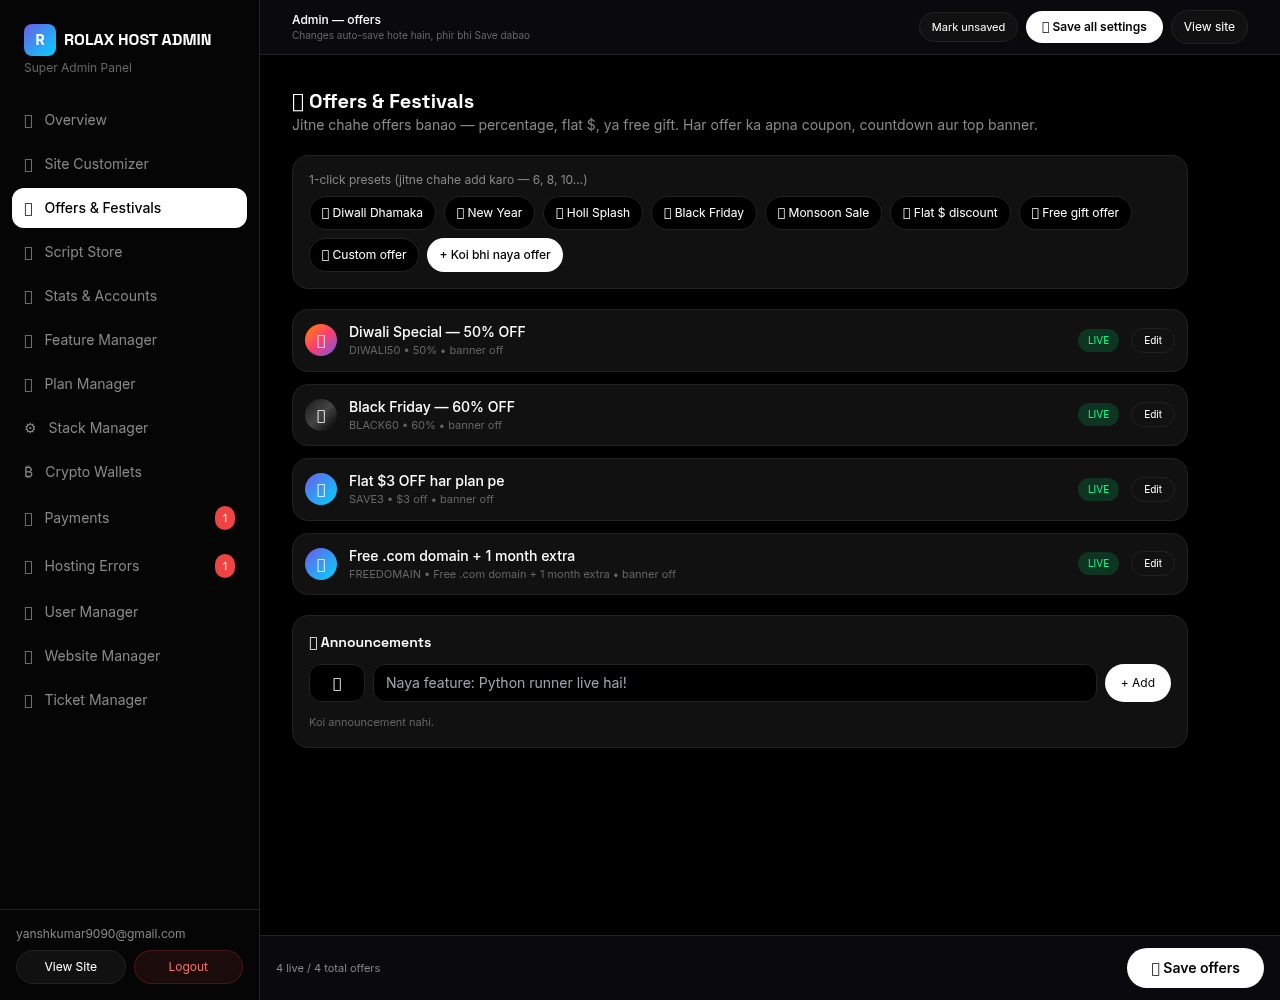
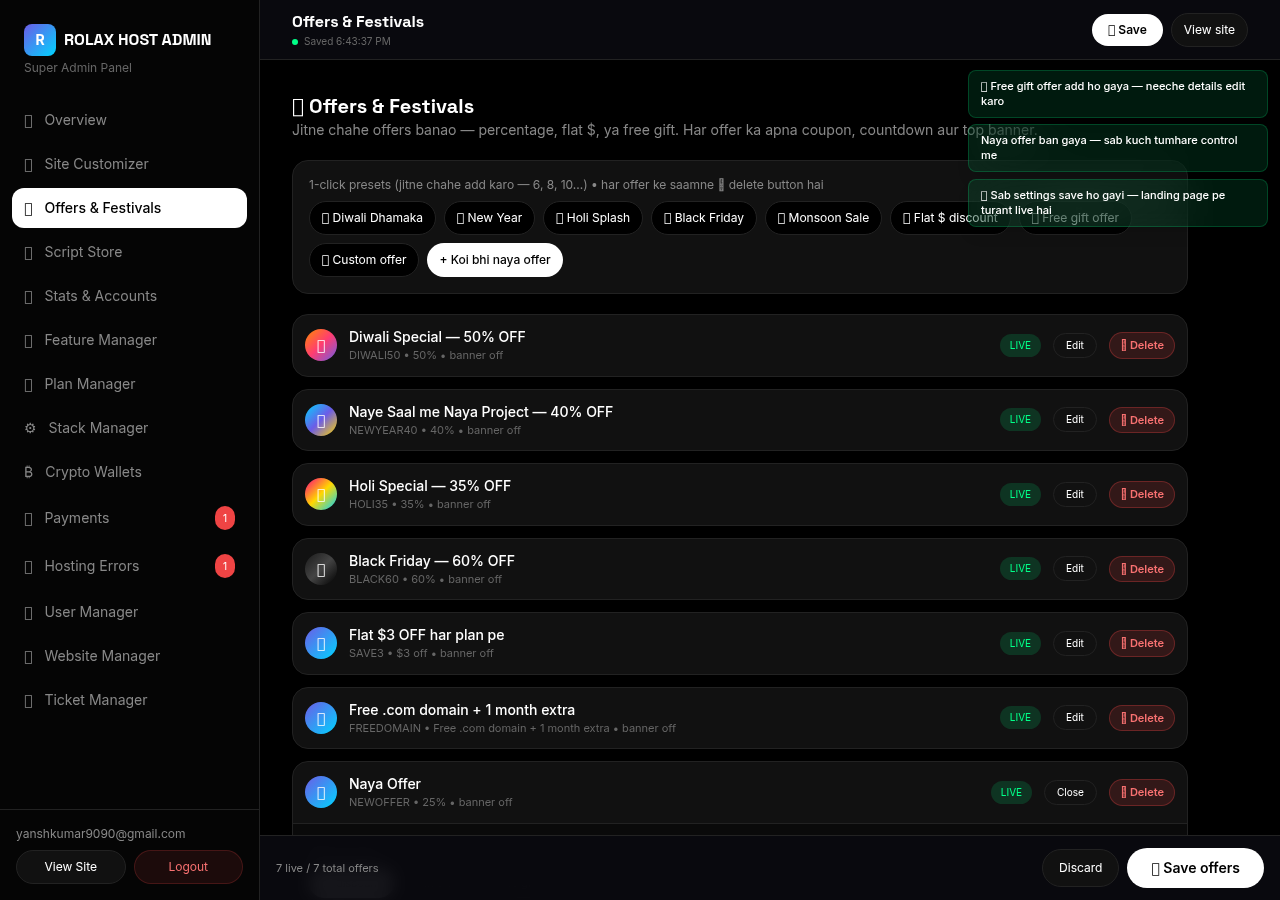
Offers: visible Delete button per offer + undo (no confirm popup), real dirty-state save bar with proper tab headings, Discard, compact toasts that never block buttons

diff --git a/app/admin/page.tsx b/app/admin/page.tsx
@@ -2,6 +2,7 @@
 import { useEffect, useState } from "react";
 import { useRouter } from "next/navigation";
 import { getAuth, clearAuth } from "@/lib/auth";
+import { useRef } from "react";
 import { useStore, ADMIN_EMAIL, DURATION_PRESETS, durationInDays, durationLabel, planTotal, type DurationUnit } from "@/lib/store";
 import { toast } from "@/components/ui/Toaster";
 import Link from "next/link";
@@ -29,9 +30,18 @@ export default function AdminPage() {
   const [viewFile, setViewFile] = useState<{ name: string; content: string } | null>(null);
   const [dirty, setDirty] = useState(false);
   const [savedAt, setSavedAt] = useState<string>("");
+  const snapshot = useRef<string>("");
 
   useEffect(() => { hydrate(); }, [hydrate]);
   useEffect(() => { setGClientId(getGoogleClientId()); }, []);
+
+  // sach wala dirty tracking — pehli load pe snapshot banao, phir compare karo
+  useEffect(() => {
+    if (!hydrated) return;
+    const snap = JSON.stringify({ settings, plans, features, stacks, wallets });
+    if (!snapshot.current) { snapshot.current = snap; return; }
+    setDirty(snap !== snapshot.current);
+  }, [hydrated, settings, plans, features, stacks, wallets]);
   useEffect(() => {
     const a = getAuth();
     if (!a || a.email !== ADMIN_EMAIL) { router.push("/login"); return; }
@@ -39,6 +49,16 @@ export default function AdminPage() {
   }, [router]);
 
   if (!hydrated || !auth) return <div className="min-h-screen bg-black flex items-center justify-center text-[#888]">Loading admin...</div>;
+
+  const TAB_LABELS: Record<string, string> = {
+    overview: "Dashboard Overview", customizer: "Site Customizer", offers: "Offers & Festivals",
+    store: "Script Store", stats: "Stats & Accounts", features: "Feature Manager",
+    plans: "Plan Manager", stacks: "Stack Manager", wallets: "Crypto Wallets",
+    payments: "Payments", hosting: "Hosting Errors", users: "User Manager",
+    websites: "Website Manager", tickets: "Ticket Manager",
+  };
+
+  const currentSnapshot = () => JSON.stringify({ settings, plans, features, stacks, wallets });
 
   const saveEverything = () => {
     // sab kuch localStorage me forcibly likho (agar store miss hua ho to bhi)
@@ -51,11 +71,26 @@ export default function AdminPage() {
       localStorage.setItem("rolax_users", JSON.stringify(users));
       window.dispatchEvent(new CustomEvent("rolax:sync", { detail: { key: "all" } }));
       setSavedAt(new Date().toLocaleTimeString());
+      snapshot.current = currentSnapshot();
       setDirty(false);
       toast("✅ Sab settings save ho gayi — landing page pe turant live hai", "success");
     } catch {
       toast("Save fail — dobara try karo", "error");
     }
+  };
+
+  const discardChanges = () => {
+    if (!snapshot.current) return;
+    try {
+      const prev = JSON.parse(snapshot.current);
+      if (prev.settings) setSettings(prev.settings);
+      if (prev.plans) setPlans(prev.plans);
+      if (prev.features) setFeatures(prev.features);
+      if (prev.stacks) setStacks(prev.stacks);
+      if (prev.wallets) setWallets(prev.wallets);
+      setDirty(false);
+      toast("Changes discard — last saved state wapas", "info");
+    } catch {}
   };
 
   const revenue = payments.filter(p => p.status === "approved").reduce((sum, p) => sum + p.amount, 0);
@@ -165,15 +200,25 @@ export default function AdminPage() {
           ))}
         </div>
 
-        {/* SAVE BAR — har setting ke liye, logout ka koi risk nahi */}
+        {/* SAVE BAR — heading + sach wala dirty state */}
         <div style={{ top: "var(--banner-h, 0px)" }} className="sticky z-30 bg-[#0a0a0f]/95 backdrop-blur border-b border-[#222] px-4 md:px-8 py-2.5 flex items-center justify-between gap-3">
           <div className="min-w-0">
-            <p className="text-xs font-medium truncate">Admin — {tab}</p>
-            <p className="text-[10px] text-[#666]">{savedAt ? `Last saved ${savedAt}` : "Changes auto-save hote hain, phir bhi Save dabao"}</p>
+            <h1 className="font-grotesk text-sm md:text-base font-bold truncate">
+              {TAB_LABELS[tab] || tab}
+            </h1>
+            <p className="text-[10px] text-[#666] flex items-center gap-1.5">
+              <span className={`inline-block w-1.5 h-1.5 rounded-full ${dirty ? "bg-[#FF8A00]" : "bg-[#00ff88]"}`} />
+              {dirty ? "Unsaved changes hain — Save dabao" : savedAt ? `Saved ${savedAt}` : "Sab saved hai"}
+            </p>
           </div>
           <div className="flex items-center gap-2 shrink-0">
-            <button onClick={() => { setDirty(true); toast("Unsaved changes mark kiye", "info"); }} className="hidden md:inline px-3 py-1.5 rounded-full bg-[#111] border border-[#222] text-[11px]">Mark unsaved</button>
-            <button onClick={saveEverything} className={`px-4 py-2 rounded-full text-xs font-semibold ${dirty ? "bg-[#00ff88] text-black" : "bg-white text-black"}`}>💾 Save all settings</button>
+            {dirty && (
+              <button onClick={discardChanges} className="hidden md:inline px-3 py-1.5 rounded-full bg-[#111] border border-[#222] text-[11px] text-[#888]">Discard</button>
+            )}
+            <button
+              onClick={saveEverything}
+              className={`px-4 py-2 rounded-full text-xs font-semibold transition ${dirty ? "bg-[#00ff88] text-black shadow-[0_0_20px_rgba(0,255,136,0.35)]" : "bg-white text-black"}`}
+            >💾 Save</button>
             <button onClick={() => router.push("/")} className="hidden md:inline px-3 py-2 rounded-full bg-[#111] border border-[#222] text-xs">View site</button>
           </div>
         </div>

diff --git a/components/admin/OffersPanel.tsx b/components/admin/OffersPanel.tsx
@@ -35,7 +35,26 @@ export default function OffersPanel() {
   };
 
   const update = (id: string, patch: Partial<Offer>) => persist(offers.map(o => o.id === id ? { ...o, ...patch } : o));
-  const remove = (id: string) => { if (confirm("Ye offer delete karna hai?")) { persist(offers.filter(o => o.id !== id)); toast("Offer delete ho gaya", "info"); } };
+  const [lastDeleted, setLastDeleted] = useState<{ offer: Offer; index: number } | null>(null);
+
+  const remove = (id: string) => {
+    const idx = offers.findIndex(o => o.id === id);
+    const gone = offers[idx];
+    if (!gone) return;
+    persist(offers.filter(o => o.id !== id));
+    setLastDeleted({ offer: gone, index: idx });
+    setOpenId(null);
+    toast("Offer delete ho gaya — Undo dabao wapas laane ke liye", "info");
+  };
+
+  const undoDelete = () => {
+    if (!lastDeleted) return;
+    const next = [...offers];
+    next.splice(Math.min(lastDeleted.index, next.length), 0, lastDeleted.offer);
+    persist(next);
+    setLastDeleted(null);
+    toast("Offer wapas aa gaya", "success");
+  };
   const duplicate = (o: Offer) => { const copy = { ...o, id: "of_" + Date.now(), title: o.title + " (copy)" }; persist([...offers, copy]); toast("Offer duplicate ho gaya", "success"); };
 
   const saveAll = () => {
@@ -53,7 +72,7 @@ export default function OffersPanel() {
       </div>
 
       <div className="rounded-2xl bg-[#111] border border-[#222] p-4">
-        <p className="text-xs text-[#888] mb-2">1-click presets (jitne chahe add karo — 6, 8, 10...)</p>
+        <p className="text-xs text-[#888] mb-2">1-click presets (jitne chahe add karo — 6, 8, 10...) • har offer ke saamne 🗑 delete button hai</p>
         <div className="flex flex-wrap gap-2">
           {OFFER_PRESETS.map(p => (
             <button key={p.key} onClick={() => addPreset(p)} className="px-3 py-2 rounded-full bg-black border border-[#222] hover:border-white text-xs">{p.emoji} {p.name}</button>
@@ -83,6 +102,7 @@ export default function OffersPanel() {
                 </div>
                 <button onClick={() => update(o.id, { enabled: !o.enabled })} className={`px-2.5 py-1 rounded-full text-[10px] shrink-0 ${o.enabled ? "bg-[#00ff88]/15 text-[#00ff88]" : "bg-[#222] text-[#888]"}`}>{o.enabled ? "LIVE" : "OFF"}</button>
                 <button onClick={() => setOpenId(open ? null : o.id)} className="px-3 py-1 rounded-full bg-[#111] border border-[#222] text-[10px] shrink-0">{open ? "Close" : "Edit"}</button>
+                <button onClick={() => remove(o.id)} title="Offer delete karo" className="px-2.5 py-1 rounded-full bg-red-500/15 border border-red-500/30 text-red-400 text-[11px] font-semibold shrink-0">🗑 Delete</button>
               </div>
 
               {open && (
@@ -169,7 +189,7 @@ export default function OffersPanel() {
 
                   <div className="flex gap-2">
                     <button onClick={() => duplicate(o)} className="px-3 py-1.5 rounded-full bg-[#111] border border-[#222] text-[11px]">Duplicate</button>
-                    <button onClick={() => remove(o.id)} className="px-3 py-1.5 rounded-full bg-red-500/10 text-red-400 text-[11px]">Delete offer #{idx + 1}</button>
+                    <button onClick={() => remove(o.id)} className="px-4 py-1.5 rounded-full bg-red-500/15 border border-red-500/30 text-red-400 text-[11px] font-medium">🗑 Delete this offer</button>
                   </div>
                 </div>
               )}
@@ -203,9 +223,17 @@ export default function OffersPanel() {
       </div>
 
       {/* sticky save */}
-      <div className="fixed bottom-0 left-0 right-0 md:left-[260px] z-50 bg-[#0a0a0f]/95 backdrop-blur border-t border-[#222] px-4 py-3 flex items-center justify-between gap-3">
-        <p className="text-[11px] text-[#888]">{offers.filter(o => o.enabled).length} live / {offers.length} total offers</p>
-        <button onClick={saveAll} className="px-6 py-2.5 rounded-full bg-white text-black text-sm font-semibold">💾 Save offers</button>
+      <div className="fixed bottom-0 left-0 right-0 md:left-[260px] z-40 bg-[#0a0a0f]/95 backdrop-blur border-t border-[#222] px-4 py-3 flex items-center justify-between gap-3">
+        <div className="min-w-0">
+          <p className="text-[11px] text-[#888]">{offers.filter(o => o.enabled).length} live / {offers.length} total offers</p>
+          {lastDeleted && (
+            <button onClick={undoDelete} className="text-[11px] text-[#FF8A00] underline">↩ Undo delete — {lastDeleted.offer.title}</button>
+          )}
+        </div>
+        <div className="flex items-center gap-2 shrink-0">
+          <button onClick={() => { setOffers(getOffers(settings)); setLastDeleted(null); toast("Changes discard", "info"); }} className="px-4 py-2.5 rounded-full bg-[#111] border border-[#222] text-xs">Discard</button>
+          <button onClick={saveAll} className="px-6 py-2.5 rounded-full bg-white text-black text-sm font-semibold">💾 Save offers</button>
+        </div>
       </div>
     </div>
   );

diff --git a/components/ui/Toaster.tsx b/components/ui/Toaster.tsx
@@ -11,21 +11,25 @@ export function toast(message: string, type: Toast["type"] = "info") {
 
 export function Toaster() {
   const [toasts, setToasts] = useState<Toast[]>([]);
+  const [ready, setReady] = useState(false);
 
   useEffect(() => {
     pushToastFn = (message, type = "info") => {
-      const id = Date.now();
-      setToasts((prev) => [...prev, { id, message, type }]);
-      setTimeout(() => setToasts((prev) => prev.filter((t) => t.id !== id)), 3000);
+      const id = Date.now() + Math.random();
+      setToasts((prev) => [...prev.slice(-2), { id, message, type }]);
+      setTimeout(() => setToasts((prev) => prev.filter((t) => t.id !== id)), 2600);
     };
+    setReady(true);
   }, []);
 
+  if (!ready) return null;
+
   return (
-    <div className="fixed bottom-4 right-4 z-[9999] flex flex-col gap-2">
+    <div className="fixed top-[70px] right-3 z-[9999] flex flex-col items-end gap-1.5 w-[300px] max-w-[calc(100vw-1.5rem)] pointer-events-none">
       {toasts.map((t) => (
         <div
           key={t.id}
-          className={`px-4 py-3 rounded-xl text-sm font-medium border backdrop-blur-xl min-w-[280px] max-w-sm ${
+          className={`px-3 py-2 rounded-lg text-[11px] leading-snug font-medium border backdrop-blur-xl shadow-lg ${
             t.type === "success" ? "bg-[#00ff88]/10 border-[#00ff88]/20 text-white" :
             t.type === "error" ? "bg-red-500/10 border-red-500/20 text-white" :
             "bg-[#111] border-[#222] text-white"
